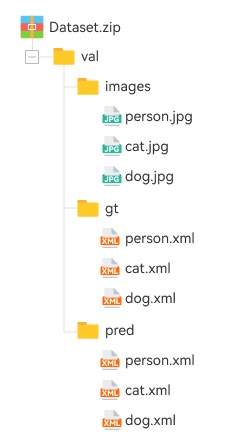
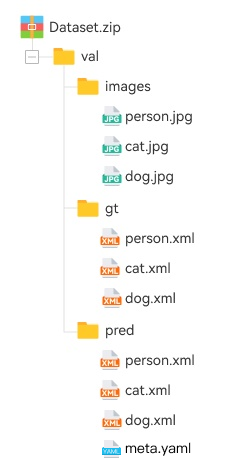
[web] 130 add prediction target info and bugs fixed (#1143)
* update get ck for batch

* add pred target to dataset detail and assets pages

* update tip info

* update ck label

Changed region(s): [[0.28, 0.1769, 0.784, 0.9728], [0.084, 0.0295, 0.476, 0.2358]]

diff --git a/ymir/web/src/pages/dataset/components/formatDetailModal.js b/ymir/web/src/pages/dataset/components/formatDetailModal.js
@@ -1,0 +1,79 @@
+import { Card, Modal } from "antd"
+import { useState } from "react"
+import XMLViewer from 'react-xml-viewer'
+
+const annotationsFormat = `<annotation>
+<folder>VOC_ROOT</folder>                           
+<filename>aaaa.jpg</filename>  # filename(required)
+<size>                         # image szie（width, height and channel count）                      
+  <width>500</width>
+  <height>332</height>
+  <depth>3</depth>
+</size>
+<image_quality>1.234</image_quality>       # image quality (optional)
+<segmented>1</segmented>       # for segmentation（optional）
+<object>                       # object
+  <name>horse</name>         # object class
+  <pose>Unspecified</pose>   #  shooting angle(optional)
+  <truncated>0</truncated>   # truncated
+  <difficult>0</difficult>   # recognition degree, 0(easy), 1(difficult) (optional)
+  <box_quality>1.234</box_quality>       # box quality 
+  <bndbox>                   # bounding-box
+    <xmin>100</xmin>
+    <ymin>96</ymin>
+    <xmax>355</xmax>
+    <ymax>324</ymax>
+    <rotate_angle>2.889813</rotate_angle>
+  </bndbox>
+</object>
+<object>                       # multiple objects
+  <name>person</name>
+  <pose>Unspecified</pose>
+  <truncated>0</truncated>
+  <difficult>0</difficult>
+  <box_quality>1.234</box_quality>
+  <confidence>0.95</confidence>  # box confidence (for prediction, not VOC standard attribute) (optional)
+  <bndbox>
+    <xmin>100</xmin>
+    <ymin>96</ymin>
+    <xmax>355</xmax>
+    <ymax>324</ymax>
+    <rotate_angle>2.889813</rotate_angle>
+  </bndbox>
+</object>
+</annotation>`
+
+const tabs = [
+  { tab: '*.xml', key: 'xml', },
+  { tab: 'meta.yaml', key: 'yaml', },
+]
+
+const contents = {
+  'xml': <XMLViewer xml={annotationsFormat} />,
+  'yaml': <div>
+    <pre><code>{
+      `
+eval_class_names:
+      - person
+      - cat
+      `
+    }
+    </code></pre>
+  </div>,
+}
+
+export const FormatDetailModal = props => {
+  const [active, setActive] = useState('xml')
+  return (
+    <Modal
+      width={'80%'}
+      style={{ top: 40 }}
+      {...props}
+      footer={null}
+    >
+      <Card tabList={tabs} activeTabKey={active} onTabChange={setActive}>
+        {console.log(contents, contents[active])} {contents[active]}
+      </Card>
+    </Modal>
+  )
+}

diff --git a/ymir/web/src/pages/dataset/add.js b/ymir/web/src/pages/dataset/add.js
@@ -17,6 +17,7 @@ import Desc from "@/components/form/desc"
 import s from './add.less'
 import samplePic from '@/assets/sample.png'
 import DatasetName from '../../components/form/items/datasetName'
+import { FormatDetailModal } from './components/formatDetailModal'
 
 const { Option } = Select
 const { useForm } = Form
@@ -62,6 +63,7 @@ const Add = (props) => {
   const [defaultName, setDefaultName] = useState('')
   const netUrl = Form.useWatch('url', form)
   const path = Form.useWatch('path', form)
+  const [formatDetailModal, setFormatDetailModal] = useState(false)
 
   useEffect(() => {
     form.setFieldsValue({ datasetId: null })
@@ -211,9 +213,14 @@ const Add = (props) => {
     return set?.keywords || []
   }
 
+  function showFormatDetail() {
+    setFormatDetailModal(true)
+  }
+
   const structureTip = t('dataset.add.form.tip.structure', {
     br: <br />,
-    pic: <img src={samplePic} />
+    pic: <img src={samplePic} />,
+    detail: <Button onClick={showFormatDetail}>{t('dataset.add.form.tip.format.detail')}</Button>,
   })
 
   const renderTip = (type, params = {}) => t(`dataset.add.form.${type}.tip`, {
@@ -238,16 +245,6 @@ const Add = (props) => {
             <DatasetName inputProps={{
               onKeyUp: () => setNameChangedByUser(true)
             }} />
-            {/* <Form.Item
-              label={t('dataset.add.form.name.label')}
-              name='name'
-              rules={[
-                { required: true, whitespace: true, message: t('dataset.add.form.name.required') },
-                { type: 'string', min: 2, max: 80 },
-              ]}
-            >
-              <Input autoComplete={'off'} onKeyUp={() => setNameChangedByUser(true)} allowClear />
-            </Form.Item> */}
             <Form.Item label={t('dataset.add.form.type.label')}>
               <Select onChange={(value) => typeChange(value)} defaultValue={TYPES.INTERNAL}>
                 {types.map(type => (
@@ -368,6 +365,7 @@ const Add = (props) => {
           </Form>
         </div>
       </Card>
+      <FormatDetailModal title={t('dataset.add.form.tip.format.detail')} visible={formatDetailModal} onCancel={() => setFormatDetailModal(false)} />
     </div>
   )
 }

diff --git a/ymir/web/src/locales/modules/dataset.ts b/ymir/web/src/locales/modules/dataset.ts
@@ -87,8 +87,9 @@ const dataset = {
   "dataset.add.form.net.label": { cn: "URL地址", en: "URL", },
   "dataset.add.form.net.placeholder": { cn: "请输入压缩文件的url地址", en: "Please input a url of zip file", },
   "dataset.add.form.path.label": { cn: "相对路径", en: "Relative Path", },
+  "dataset.add.form.tip.format.detail": { cn: "查看标注格式(.xml)及meta.yaml格式", en: "View more about annotation format or meta.yaml", },
   "dataset.add.form.tip.structure": {
-    cn: "压缩包文件内图片文件需放入images文件夹内，标准值标注文件需放入gt文件夹内，模型推理标注文件需放入pred文件夹内。gt和pred都是可选的。压缩包内文件结构如下：{br}{pic}",
+    cn: "压缩包文件内图片文件需放入images文件夹内，标准值标注文件需放入gt文件夹内，模型推理标注文件需放入pred文件夹内。gt和pred都是可选的。压缩包内文件结构如下：{br}{pic}{br}{detail}",
     en: "image -> images; gt -> ground truth annotations; pred -> predictions. gt and pred is optional. zip structure: {br}{pic}"
   },
   "dataset.add.form.path.tip": {
@@ -169,6 +170,7 @@ const dataset = {
   'dataset.assets.keyword.selector.types.placeholder': { en: 'Please select filter keywords', cn: '请选择筛选标签，可多选' },
   'dataset.assets.selector.gt.label': { en: 'Annotation Type:', cn: '标注类型：' },
   'dataset.assets.selector.evaluation.label': { en: 'Evaluation:', cn: '预测：' },
+  'dataset.detail.infer.class': { en: 'Prediction Target:', cn: '模型预测目标：' },
 
 }
 

diff --git a/ymir/web/src/components/dataset/detail.js b/ymir/web/src/components/dataset/detail.js
@@ -14,10 +14,10 @@ const labelStyle = { width: '15%', paddingRight: '20px', justifyContent: 'flex-e
 
 function DatasetDetail({ dataset = {} }) {
   const history = useHistory()
-  const [{ cks, tags }, getCK] = useFetch('dataset/getCK', { cks: {}, tags: {} })
+  const [[{ cks, tags, inferClass }], getCK] = useFetch('dataset/getCK', [{ cks: {}, tags: {} }])
 
   useEffect(() => {
-    dataset.id && dataset.state === states.VALID && getCK({ id: dataset.id })
+    dataset.id && dataset.state === states.VALID && getCK({ pid: dataset.projectId, ids: [dataset.id] })
   }, [dataset])
 
 
@@ -60,6 +60,7 @@ function DatasetDetail({ dataset = {} }) {
         <Item label={t("dataset.detail.label.keywords")}>
           {renderKeywords(dataset.gt)}
           {renderKeywords(dataset.pred, 'prediction')}
+          {inferClass ? <div>{t('dataset.detail.infer.class')}{inferClass.map(cls => <Tag key={cls}>{cls}</Tag>)}</div> : null}
         </Item>
         <Item label={t("dataset.detail.label.assets")} contentStyle={{ minWidth: 150 }}>{dataset.assetCount}</Item>
         {dataset.hidden ? <Item label={t("common.hidden.label")}>{t('common.state.hidden')}</Item> : null}

diff --git a/ymir/web/src/pages/dataset/assets.js b/ymir/web/src/pages/dataset/assets.js
@@ -18,7 +18,7 @@ import EvaluationSelector from "@/components/form/evaluationSelector"
 const { Option } = Select
 
 const Dataset = () => {
-  const { did: id } = useParams()
+  const { id: pid, did: id } = useParams()
   const initQuery = {
     id,
     keywords: [],
@@ -36,9 +36,11 @@ const Dataset = () => {
   const windowWidth = useWindowResize()
   const [dataset, getDataset] = useFetch('dataset/getDataset', {})
   const [{ items: assets, total }, getAssets, setAssets] = useFetch('dataset/getAssetsOfDataset', { items: [], total: 0 })
+  const [[{ cks, tags, inferClass }], getCK] = useFetch('dataset/getCK', [{ cks: {}, tags: {} }])
 
   useEffect(() => {
     getDataset({ id })
+    getCK({ pid, ids: [id]})
   }, [id])
 
   useEffect(() => {
@@ -154,6 +156,7 @@ const Dataset = () => {
       <Space>
         <strong>{dataset.name} {dataset.versionName}</strong>
         <span>{t("dataset.detail.pager.total", { total: total + '/' + dataset.assetCount })}</span>
+        {inferClass ? <div>{t('dataset.detail.infer.class')}{inferClass.map(cls => <Tag key={cls}>{cls}</Tag>)}</div> : null}
       </Space>
     </Col>
     <Col span={12}>

diff --git a/ymir/web/src/pages/project/diagnose/metrics.js b/ymir/web/src/pages/project/diagnose/metrics.js
@@ -249,7 +249,7 @@ function Matrics({ pid, project }) {
                 <Form.Item label={t('model.diagnose.form.confidence')} name='confidence'>
                   <InputNumber step={0.0005} min={0.0005} max={0.9995} />
                 </Form.Item>
-                <Form.Item label={'cks'} name='ck'>
+                <Form.Item label={t('keyword.ck.label')} name='ck'>
                   <Select options={cks.map(ck => ({ value: ck, label: ck }))}></Select>
                 </Form.Item>
                 <Form.Item label={renderIouTitle} name='iou'>

diff --git a/ymir/web/src/constants/dataset.ts b/ymir/web/src/constants/dataset.ts
@@ -118,6 +118,7 @@ export function transferDatasetAnalysis(data: BackendData): DatasetAnalysis {
     assetHWRatio: hw_ratio,
     gt,
     pred,
+    inferClass: data?.pred?.eval_class_ids,
     cks: transferCK(data.cks_count, data.cks_count_total),
     tags: transferCK(tagsCounts, tagsTotal),
   }

diff --git a/ymir/web/src/interface/dataset.ts b/ymir/web/src/interface/dataset.ts
@@ -49,6 +49,7 @@ export interface DatasetAnalysis {
   assetQuality: Array<BackendData>,
   gt: AnylysisAnnotation,
   pred: AnylysisAnnotation,
+  inferClass?: Array<string>,
   cks?: BackendData,
   tags?: BackendData,
 }
